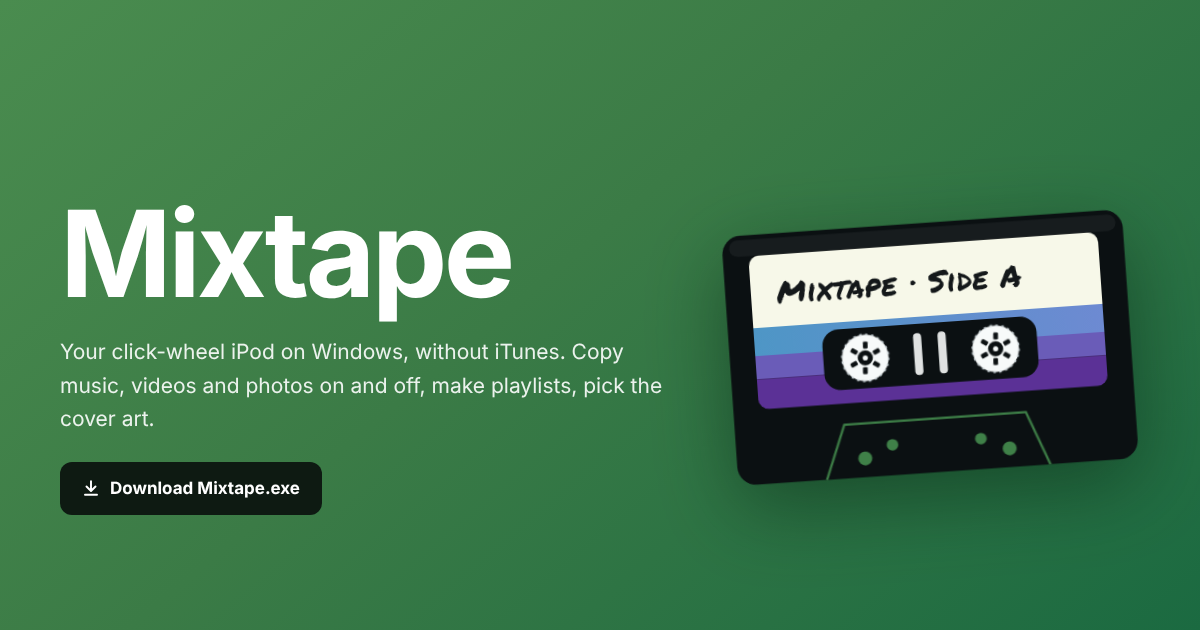
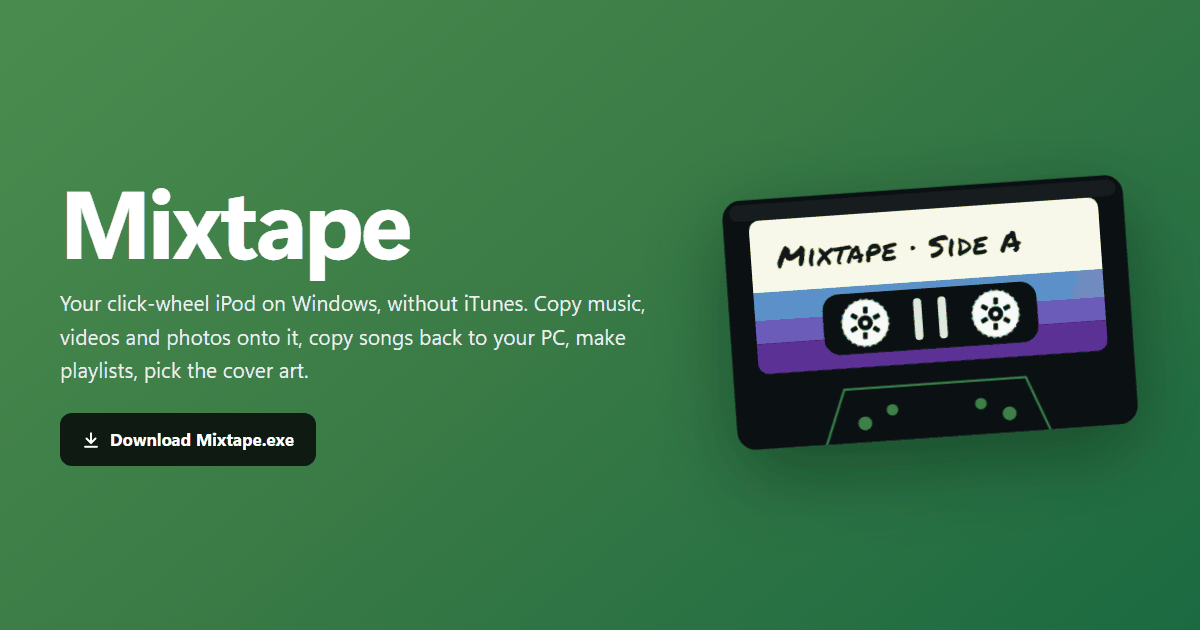
Website: real screenshots, and claims checked against 0.21.0
The page had no screenshot at all. It now shows four renders of Mixtape 0.21.0
itself (its own --render mode) with a made-up demo iPod: invented artists and
albums, generated covers, nothing from a real library. The song list is the hero;
Cover Flow, the iPod's page and the Windows 95 look sit under the J-card.

Text that said more than the app does:
- "copy music, videos and photos on and off": songs copy back to the PC; photos
  do not. Intro, meta, structured data and og.png say so now.
- "formats the iPod can't play are converted": only with FFmpeg installed.
- "duplicates are skipped": Mixtape spots them and offers to skip them.
- "Read device ID": it offers to read the ID by itself when the iPod is plugged in.
- the AppImage is a separate, simpler Linux app (unchanged since 0.17.0).

Added: Windows 10/11 64-bit, why the exe is 181 MB, the .NET 8 Desktop Runtime for
the small zip, FFmpeg for converting, online lookups for lyrics/covers (can be
turned off), less real-device testing for hash58 writes, no shuffle/touch.
Side B gains synced lyrics and smart playlists.

Changed region(s): [[0.0308, 0.3016, 0.555, 0.8444], [0.5858, 0.2714, 0.9558, 0.7841]]

diff --git a/site/index.html b/site/index.html
@@ -4,12 +4,12 @@
 <meta charset="utf-8">
 <meta name="viewport" content="width=device-width, initial-scale=1">
 <title>Mixtape · click-wheel iPod manager for Windows, no iTunes</title>
-<meta name="description" content="Manage your click-wheel iPod on Windows without iTunes: copy music, videos and photos, build playlists, pick cover art.">
+<meta name="description" content="Manage your click-wheel iPod on Windows without iTunes: copy music, videos and photos onto it, copy songs back to your PC, build playlists, pick cover art.">
 <link rel="canonical" href="https://erik1028.github.io/Mixtape/">
 <meta property="og:type" content="website">
 <meta property="og:site_name" content="Erik1028">
 <meta property="og:url" content="https://erik1028.github.io/Mixtape/">
-<script type="application/ld+json">{"@context": "https://schema.org", "@type": "SoftwareApplication", "name": "Mixtape", "url": "https://erik1028.github.io/Mixtape/", "description": "Manage your click-wheel iPod on Windows without iTunes: copy music, videos and photos on and off, build playlists, pick cover art.", "image": "https://erik1028.github.io/Mixtape/og.png", "operatingSystem": "Windows 10, Windows 11, Linux", "applicationCategory": "MultimediaApplication", "downloadUrl": "https://github.com/Erik1028/Mixtape/releases/latest", "isAccessibleForFree": true, "inLanguage": "en", "license": "https://opensource.org/licenses/MIT", "offers": {"@type": "Offer", "price": "0", "priceCurrency": "USD"}, "author": {"@type": "Person", "name": "Erik1028", "url": "https://github.com/Erik1028"}, "softwareHelp": {"@type": "CreativeWork", "url": "https://github.com/Erik1028/Mixtape/blob/main/TROUBLESHOOTING.md"}, "sameAs": ["https://github.com/Erik1028/Mixtape"]}</script>
+<script type="application/ld+json">{"@context": "https://schema.org", "@type": "SoftwareApplication", "name": "Mixtape", "url": "https://erik1028.github.io/Mixtape/", "description": "Manage your click-wheel iPod on Windows without iTunes: copy music, videos and photos onto it, copy songs back to your PC, build playlists, pick cover art.", "image": "https://erik1028.github.io/Mixtape/og.png", "screenshot": "https://erik1028.github.io/Mixtape/img/songs.webp", "operatingSystem": "Windows 10, Windows 11, Linux", "applicationCategory": "MultimediaApplication", "downloadUrl": "https://github.com/Erik1028/Mixtape/releases/latest", "isAccessibleForFree": true, "inLanguage": "en", "license": "https://opensource.org/licenses/MIT", "offers": {"@type": "Offer", "price": "0", "priceCurrency": "USD"}, "author": {"@type": "Person", "name": "Erik1028", "url": "https://github.com/Erik1028"}, "softwareHelp": {"@type": "CreativeWork", "url": "https://github.com/Erik1028/Mixtape/blob/main/TROUBLESHOOTING.md"}, "sameAs": ["https://github.com/Erik1028/Mixtape"]}</script>
 <meta property="og:title" content="Mixtape">
 <meta property="og:description" content="Manage your click-wheel iPod on Windows without iTunes.">
 <meta property="og:image" content="https://erik1028.github.io/Mixtape/og.png">
@@ -31,11 +31,11 @@
 <section class="intro wrap" id="top">
 <div class="intro-text">
 <h1>Mixtape</h1>
-<p>Your click-wheel iPod on Windows, without iTunes. Copy music, videos and photos on and off, make playlists, pick the cover art.</p>
+<p>Your click-wheel iPod on Windows, without iTunes. Copy music, videos and photos onto it, copy songs back to your PC, make playlists, pick the cover art.</p>
 <div class="get">
 <a class="btn" href="https://github.com/Erik1028/Mixtape/releases/latest" data-asset="^Mixtape\.exe$"><svg width="18" height="18" viewBox="0 0 24 24" fill="none" stroke="currentColor" stroke-width="2.6" stroke-linecap="round" stroke-linejoin="round" aria-hidden="true"><path d="M12 3v12M6 10l6 6 6-6M4 21h16"/></svg>Download Mixtape.exe</a>
 <span class="mono" id="ver">latest release</span>
-<span class="alt"><a href="https://github.com/Erik1028/Mixtape/releases/latest" data-asset="win-x64\.zip$">Small zip<span class="size"></span></a> needs .NET 8 · <a href="https://github.com/Erik1028/Mixtape/releases/latest" data-asset="\.AppImage$">Linux AppImage</a></span>
+<span class="alt"><a href="https://github.com/Erik1028/Mixtape/releases/latest" data-asset="win-x64\.zip$">Small zip<span class="size"></span></a> needs the .NET 8 Desktop Runtime · <a href="https://github.com/Erik1028/Mixtape/releases/latest" data-asset="\.AppImage$">Linux AppImage</a>, a separate, simpler version</span>
 </div>
 </div>
 <div class="tape"><svg class="cassette" viewBox="0 0 360 232" role="img" aria-label="A cassette tape with turning reels">
@@ -63,7 +63,10 @@
 
 <main class="wrap">
 
-<figure class="hero-shot" data-slot="img/screenshot.png" data-alt="Mixtape showing an iPod's songs" hidden style="margin:0"><div class="shot"></div></figure>
+<figure class="hero-shot" style="margin:0">
+<div class="shot"><img src="img/songs.webp" width="1264" height="781" alt="Mixtape's song list for an iPod: covers, artists, albums, star ratings and play counts, with a song playing in the player at the top"></div>
+<figcaption>Mixtape 0.21 with a made-up demo iPod: invented artists and albums, generated covers.</figcaption>
+</figure>
 
 <section class="block" id="features">
 <h2>What it does</h2>
@@ -72,8 +75,8 @@
 <div class="jside">
 <h3 class="side">Side A</h3>
 <ol class="tracks" data-stagger="80">
-<li><span class="no">A1</span><div><b class="hand">Your library</b><p>Songs, albums, artists and playlists, with ratings and play counts. A player with a 10-band equalizer, for the iPod or your PC.</p></div></li>
-<li><span class="no">A2</span><div><b class="hand">On and off</b><p>Drag music, videos, photos or whole folders onto the window. Formats the iPod can't play are converted, duplicates are skipped.</p></div></li>
+<li><span class="no">A1</span><div><b class="hand">Your library</b><p>Songs, albums, artists and playlists, with star ratings and play counts. A player with a 10-band equalizer plays from the iPod or from music folders on your PC.</p></div></li>
+<li><span class="no">A2</span><div><b class="hand">On and off</b><p>Drag music, videos, photos or whole folders onto the window. Formats the iPod can't play are converted (with FFmpeg), and songs already on the iPod are caught before they're copied twice. Songs copy back to your PC too.</p></div></li>
 <li><span class="no">A3</span><div><b class="hand">Safe writes</b><p>It backs up the iPod's database before every change, checks the result and rolls back if anything doesn't match.</p></div></li>
 </ol>
 </div>
@@ -82,38 +85,47 @@
 <ol class="tracks short" data-stagger="60">
 <li><span class="no">B1</span><b class="hand">Cover art on the iPod's screen</b></li>
 <li><span class="no">B2</span><b class="hand">Lyrics on the iPod</b></li>
-<li><span class="no">B3</span><b class="hand">Cover Flow</b></li>
-<li><span class="no">B4</span><b class="hand">A real tag editor</b></li>
-<li><span class="no">B5</span><b class="hand">A Windows 95 look</b></li>
-<li><span class="no">B6</span><b class="hand">English and Magyar</b></li>
-<li class="faint"><span class="no">B7</span><b class="hand">Something hidden</b></li>
+<li><span class="no">B3</span><b class="hand">Synced lyrics as you listen</b></li>
+<li><span class="no">B4</span><b class="hand">Cover Flow</b></li>
+<li><span class="no">B5</span><b class="hand">Smart playlists</b></li>
+<li><span class="no">B6</span><b class="hand">A real tag editor</b></li>
+<li><span class="no">B7</span><b class="hand">A Windows 95 look</b></li>
+<li><span class="no">B8</span><b class="hand">English and Magyar</b></li>
+<li class="faint"><span class="no">B9</span><b class="hand">Something hidden</b></li>
 </ol>
 </div>
+</div>
+<div class="cards" data-stagger="110">
+<article class="card"><div class="shot"><img src="img/coverflow.webp" width="800" height="500" alt="Cover Flow: album covers turning in a row, the middle one large with its title underneath" loading="lazy"></div><h3>Cover Flow</h3><p>Albums, songs or artists as a row of turning covers. Type a letter to jump; Enter plays the album in the middle.</p></article>
+<article class="card"><div class="shot"><img src="img/ipod-page.webp" width="800" height="500" alt="The iPod's page: a storage ring with music, video, photos and free space, the model, its signature and the last automatic backup" loading="lazy"></div><h3>The iPod's page</h3><p>What fills the space, which model it is, whether it can be written, and the backup taken before the last change, with Restore.</p></article>
+<article class="card"><div class="shot"><img src="img/windows95.webp" width="800" height="500" alt="The same song list in the Windows 95 look: grey 3D panels, a tree of folders, navy selection and a status bar" loading="lazy"></div><h3>A Windows 95 look</h3><p>Settings › Appearance › Look. The whole window the way a program looked in 1995: grey 3D panels, square corners, navy selection.</p></article>
 </div>
 </section>
 
 <section class="block" id="ipods">
 <h2>Which iPods</h2>
-<p style="color:var(--dim);margin-top:10px;max-width:44em">Click-wheel models that show up as a drive. Every one can be read; writing depends on how Apple signed its database.</p>
+<p style="color:var(--dim);margin-top:10px;max-width:44em">Click-wheel models that show up as a drive in Windows. Every one can be read and its songs copied off; writing depends on how Apple signed its database.</p>
 <div class="tbl" style="margin-top:18px">
 <table>
 <thead><tr><th scope="col">iPod</th><th scope="col">Signature</th><th scope="col">Add music</th></tr></thead>
 <tbody data-stagger="90">
 <tr><td>1G–5G, photo, mini, nano 1G / 2G</td><td>none</td><td class="yes">Yes</td></tr>
-<tr><td>Classic, nano 3G / 4G</td><td>hash58</td><td class="yes">Yes, after <i>Read device ID</i></td></tr>
+<tr><td>Classic, nano 3G / 4G</td><td>hash58</td><td class="yes">Yes, once Mixtape reads its ID</td></tr>
 <tr><td>nano 5G and later</td><td>hash72 / hashAB</td><td class="no">Read only</td></tr>
 </tbody>
 </table>
 </div>
+<p class="cap">Writing to hash58 iPods has had less testing on real devices than the others. The iPod shuffle and the iPod touch aren't supported.</p>
 </section>
 
 <section class="block two" id="install" data-reveal>
 <div><h2>Download</h2></div>
 <div>
 <ol>
-<li><a href="https://github.com/Erik1028/Mixtape/releases/latest" data-asset="^Mixtape\.exe$">Download Mixtape.exe</a> and run it. No installer, nothing to set up.</li>
+<li><a href="https://github.com/Erik1028/Mixtape/releases/latest" data-asset="^Mixtape\.exe$">Download Mixtape.exe<span class="size"></span></a> and run it. No installer, nothing to set up.</li>
 <li>Plug in your iPod.</li>
 </ol>
+<p class="aside">Windows 10 or 11, 64-bit. Mixtape.exe is big because .NET comes inside it; the small zip needs the <a href="https://dotnet.microsoft.com/download/dotnet/8.0">.NET 8 Desktop Runtime</a>. Converting FLAC, OGG, Opus, WMA and videos needs <a href="https://ffmpeg.org/">FFmpeg</a> (<code>winget install Gyan.FFmpeg</code>), which Mixtape finds by itself. Lyrics and missing covers are looked up online by artist and title; Settings can turn that off.</p>
 <p class="aside">Windows SmartScreen may warn, because Mixtape isn't signed: <i>More info › Run anyway</i>. Back up your iPod before the first write. Problems? See <a href="https://github.com/Erik1028/Mixtape/blob/main/TROUBLESHOOTING.md">Troubleshooting</a>.</p>
 </div>
 </section>
